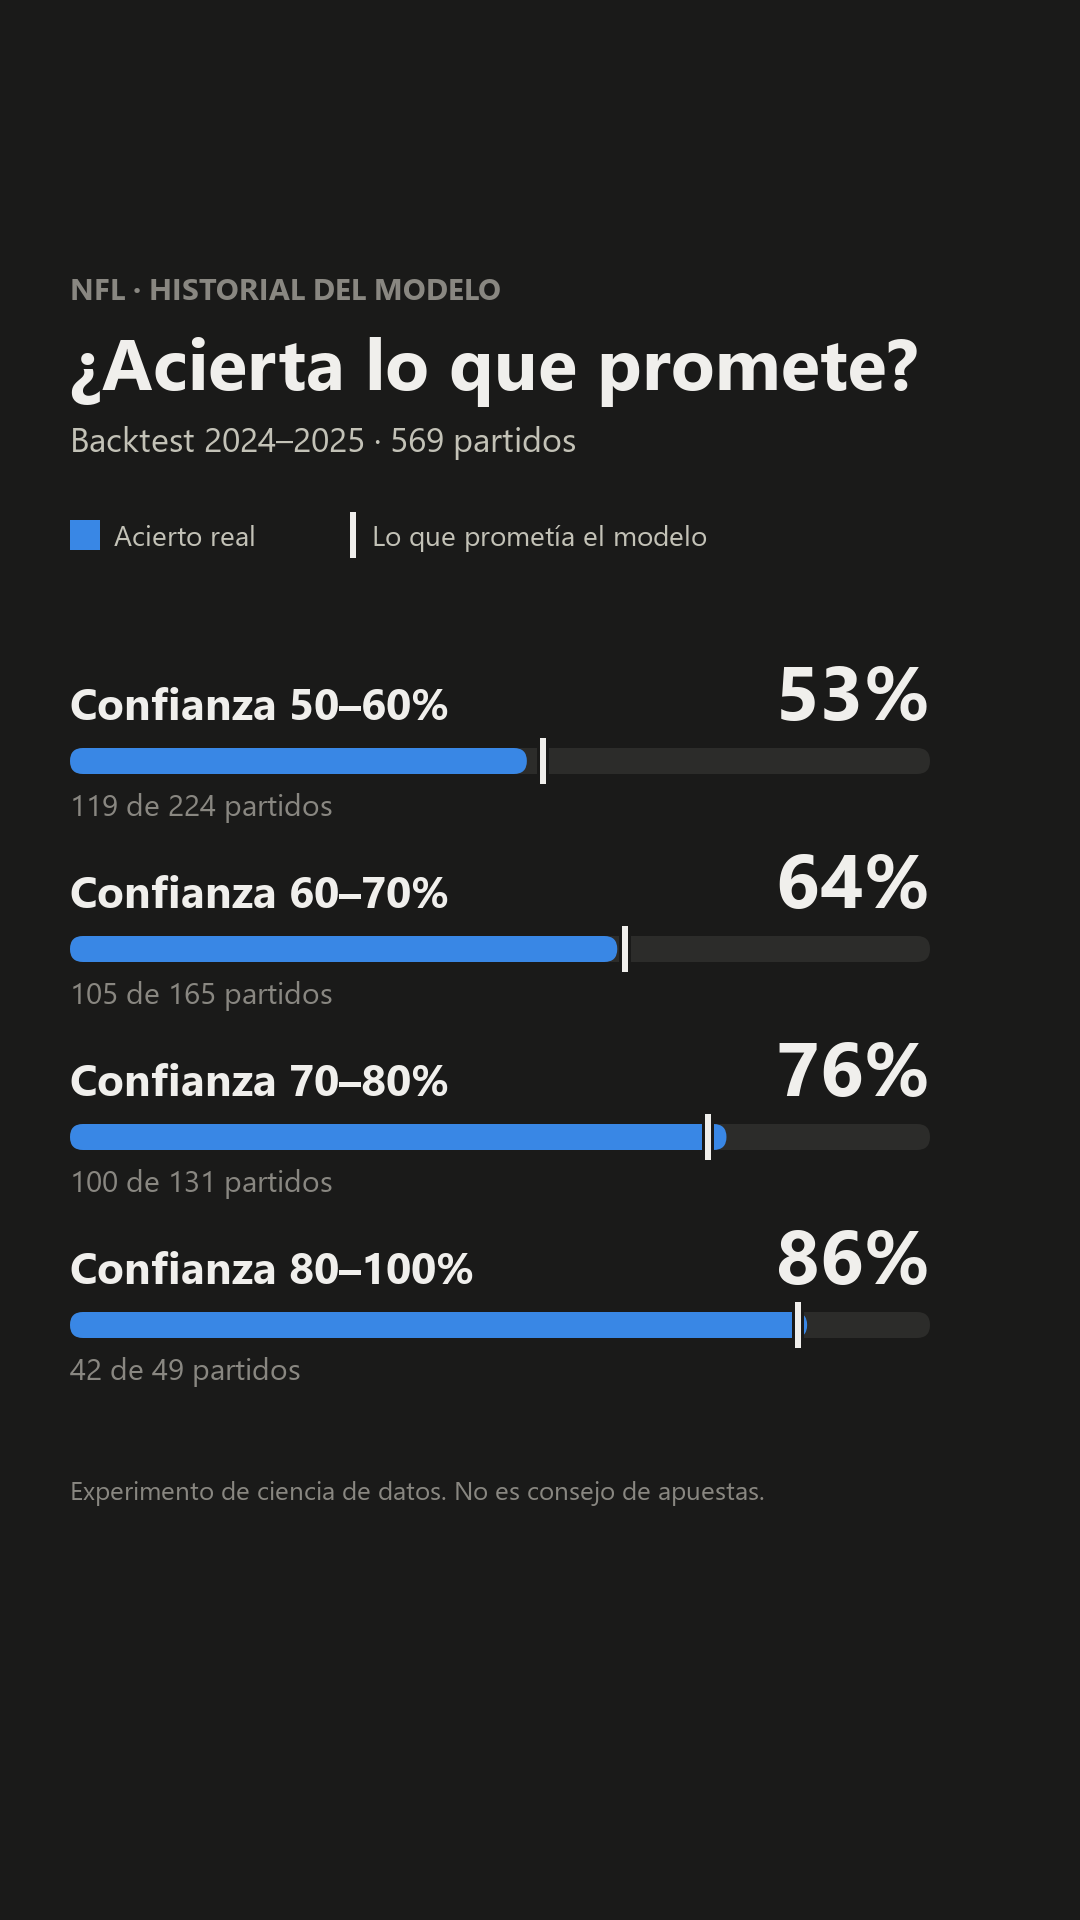
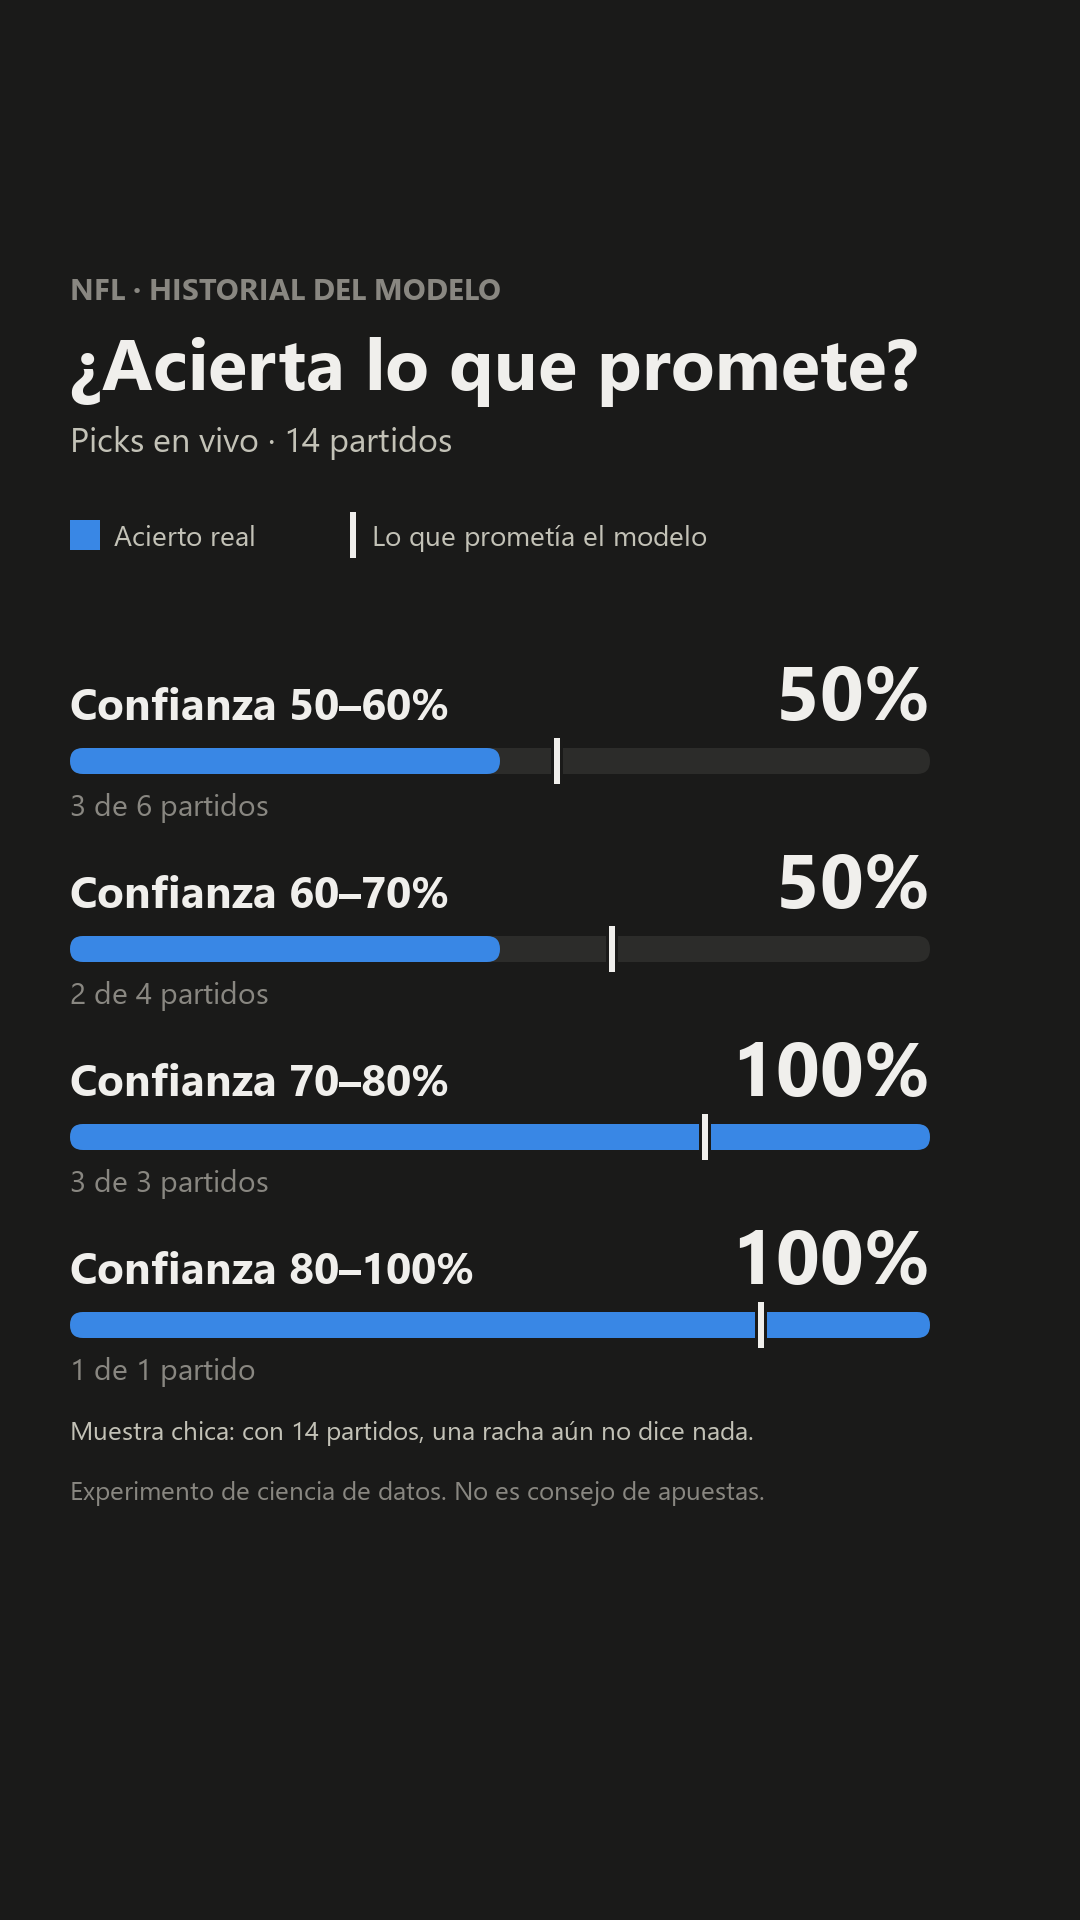
Imágenes: hasta 6 picks fuertes, aviso de muestra chica y nota de Vegas según el caso

diff --git a/src/nfl_model/content.py b/src/nfl_model/content.py
@@ -51,7 +51,11 @@ NARANJA = "#d95926"  # serie 2: Las Vegas
 FUENTE = ["Segoe UI", "DejaVu Sans"]
 
 FUERTE = 0.70
-MAX_PICKS = 5
+# Hasta 5 picks caben con el tamaño normal; el sexto entra con filas compactas.
+MAX_PICKS = 6
+PICKS_NORMALES = 5
+# Con menos partidos calificados en vivo, el historial lleva aviso (mismo umbral que track).
+MUESTRA_MINIMA = 50
 
 
 # ---------- utilidades de dibujo ----------
@@ -144,56 +148,82 @@ def mayor_diferencia(picks: list[dict]) -> dict | None:
     return mejor
 
 
-def datos_historial() -> tuple[list[dict], str]:
-    """(tabla por rango, texto de la fuente). En vivo si hay; si no, backtest."""
+def nota_muestra(partidos_en_vivo: int) -> str | None:
+    """Aviso para el historial en vivo mientras la muestra sea chica."""
+    if partidos_en_vivo >= MUESTRA_MINIMA:
+        return None
+    return f"Muestra chica: con {partidos_en_vivo} partidos, una racha aún no dice nada."
+
+
+def datos_historial() -> tuple[list[dict], str, str | None]:
+    """(tabla por rango, texto de la fuente, aviso). En vivo si hay; si no, backtest."""
     ruta = PICKS_DIR / "resultados.csv"
     if ruta.exists():
         with ruta.open(newline="", encoding="utf-8") as archivo:
             filas = list(csv.DictReader(archivo))
         decididos = [f for f in filas if f["estado"] in ("acierto", "fallo")]
         if decididos:
-            return por_rango(filas), f"Picks en vivo · {len(decididos)} partidos"
+            return (
+                por_rango(filas),
+                f"Picks en vivo · {len(decididos)} partidos",
+                nota_muestra(len(decididos)),
+            )
 
     ruta = DATA_PROCESSED / "backtest_predicciones.parquet"
     if not ruta.exists():
-        return [], ""
+        return [], "", None
     filas = []
     for f in pl.read_parquet(ruta).filter(pl.col("season") >= 2024).to_dicts():
         p = f["p_home_modelo"]
         acierto = (p >= 0.5) == (f["home_win"] == 1)
         filas.append({"p_pick": max(p, 1 - p), "estado": "acierto" if acierto else "fallo"})
-    return por_rango(filas), f"Backtest 2024–2025 · {len(filas)} partidos"
+    return por_rango(filas), f"Backtest 2024–2025 · {len(filas)} partidos", None
 
 
 # ---------- las tres imágenes ----------
 
 
+def titulos_picks(n_fuertes: int) -> tuple[str, str]:
+    """(título, subtítulo) de la imagen de picks según cuántos llegan a 70%."""
+    if n_fuertes == 0:
+        return "Los picks más fuertes", "Esta semana ninguno llega a 70%"
+    if n_fuertes > MAX_PICKS:
+        return (
+            f"Los {MAX_PICKS} picks más fuertes",
+            f"{n_fuertes} llegan a 70%; aquí los {MAX_PICKS} más altos",
+        )
+    return "Picks de 70% o más", "Probabilidad de victoria según el modelo"
+
+
 def imagen_picks(picks: list[dict], temporada: int, semana: int, ruta: Path) -> Path:
-    fuertes = [f for f in picks if float(f["p_pick"]) >= FUERTE][:MAX_PICKS]
-    hay_fuertes = bool(fuertes)
-    mostrar = fuertes or picks[:3]
+    fuertes = [f for f in picks if float(f["p_pick"]) >= FUERTE]
+    mostrar = fuertes[:MAX_PICKS] or picks[:3]
+    titulo, subtitulo = titulos_picks(len(fuertes))
 
     fig, ax = _lienzo()
-    _encabezado(
-        ax,
-        f"NFL · Semana {semana} · {temporada}",
-        "Picks de 70% o más" if hay_fuertes else "Los picks más fuertes",
-        "Probabilidad de victoria según el modelo"
-        if hay_fuertes
-        else "Esta semana ninguno llega a 70%",
-    )
+    _encabezado(ax, f"NFL · Semana {semana} · {temporada}", titulo, subtitulo)
     # El partido va pegado a su barra y lejos del siguiente equipo, para que
-    # no se lea como título de la fila de abajo.
+    # no se lea como título de la fila de abajo. Con 6 filas todo se compacta
+    # para que la última termine antes del aviso del pie.
+    compacto = len(mostrar) > PICKS_NORMALES
+    letra, paso, bajo_barra = (64, 150, 76) if compacto else (76, 185, 86)
     y = 610
     for f in mostrar:
         p = float(f["p_pick"])
-        _texto(ax, IZQ, y, f["pick"], 76, TINTA, "bold")
-        _texto(ax, DER, y, _pct(p), 76, TINTA, "bold", "right")
-        _barra(ax, y + 26, p, AZUL)
-        _texto(ax, IZQ, y + 86, f"{f['visita']} en {f['local']}", 30, TENUE)
-        y += 185
+        _texto(ax, IZQ, y, f["pick"], letra, TINTA, "bold")
+        _texto(ax, DER, y, _pct(p), letra, TINTA, "bold", "right")
+        _barra(ax, y + 22 if compacto else y + 26, p, AZUL)
+        _texto(ax, IZQ, y + bajo_barra, f"{f['visita']} en {f['local']}", 30, TENUE)
+        y += paso
     _pie(ax)
     return _guardar(fig, ruta)
+
+
+def nota_vegas(mismo_ganador: bool) -> str:
+    """Dato del backtest 2024–2025 que corresponde a la situación del partido."""
+    if mismo_ganador:
+        return "En el backtest 2024–2025 Las Vegas acertó 68% de los partidos; el modelo, 64%."
+    return "En el backtest 2024–2025, cuando eligieron distinto, Las Vegas acertó 53 de 83."
 
 
 def imagen_vegas(picks: list[dict], temporada: int, semana: int, ruta: Path) -> Path | None:
@@ -230,16 +260,18 @@ def imagen_vegas(picks: list[dict], temporada: int, semana: int, ruta: Path) -> 
         y += 190
 
     _texto(ax, IZQ, 1380, f"{abs(d['diferencia']) * 100:.1f} puntos de diferencia", 44, TINTA, "bold")
-    _texto(
-        ax, IZQ, 1430,
-        "En el backtest 2024–2025, cuando eligieron distinto, Las Vegas acertó 53 de 83.",
-        24, TENUE,
-    )
+    _texto(ax, IZQ, 1430, nota_vegas(mismo_ganador), 24, TENUE)
     _pie(ax)
     return _guardar(fig, ruta)
 
 
-def imagen_historial(tabla: list[dict], fuente: str, ruta: Path) -> Path | None:
+def _partidos(n: int) -> str:
+    return "partido" if n == 1 else "partidos"
+
+
+def imagen_historial(
+    tabla: list[dict], fuente: str, ruta: Path, nota: str | None = None
+) -> Path | None:
     if not tabla:
         return None
     fig, ax = _lienzo()
@@ -262,11 +294,16 @@ def imagen_historial(tabla: list[dict], fuente: str, ruta: Path) -> Path | None:
             # Marca con anillo del color del fondo para que se lea sobre el relleno.
             ax.add_patch(Rectangle((x - 6, y + 16), 12, 50, facecolor=FONDO, edgecolor="none"))
             ax.add_patch(Rectangle((x - 3, y + 18), 6, 46, facecolor=TINTA, edgecolor="none"))
-            _texto(ax, IZQ, y + 96, f"{r['aciertos']} de {r['partidos']} partidos", 30, TENUE)
+            _texto(
+                ax, IZQ, y + 96,
+                f"{r['aciertos']} de {r['partidos']} {_partidos(r['partidos'])}", 30, TENUE,
+            )
         else:
             _barra(ax, y + 28, 0, AZUL)
             _texto(ax, IZQ, y + 96, "Sin partidos calificados todavía", 30, TENUE)
         y += 188
+    if nota:
+        _texto(ax, IZQ, 1440, nota, 26, TINTA_2)
     _pie(ax)
     return _guardar(fig, ruta)
 
@@ -349,10 +386,11 @@ def main() -> None:
 
     carpeta = REPORTS_DIR / "contenido"
     base = f"semana_{temporada}_{semana:02d}"
+    tabla, fuente, nota = datos_historial()
     hechas = [
         imagen_picks(picks, temporada, semana, carpeta / f"{base}_picks.png"),
         imagen_vegas(picks, temporada, semana, carpeta / f"{base}_vegas.png"),
-        imagen_historial(*datos_historial(), carpeta / "historial.png"),
+        imagen_historial(tabla, fuente, carpeta / "historial.png", nota),
     ]
     from .predict import perfiles_de_semana
 

diff --git a/tests/test_content.py b/tests/test_content.py
@@ -8,9 +8,14 @@ from nfl_model.content import (
     ANCHO,
     imagen_historial,
     imagen_picks,
+    MAX_PICKS,
+    MUESTRA_MINIMA,
     imagen_vegas,
     mayor_diferencia,
+    nota_muestra,
+    nota_vegas,
     picks_de_semana,
+    titulos_picks,
 )
 
 
@@ -78,3 +83,35 @@ def test_imagen_de_historial(tmp_path):
     ]
     assert _es_vertical(imagen_historial(tabla, "Backtest 2024–2025 · 520 partidos", tmp_path / "h.png"))
     assert imagen_historial([], "", tmp_path / "vacio.png") is None
+
+
+def test_titulos_picks_no_prometen_de_mas():
+    assert titulos_picks(0)[0] == "Los picks más fuertes"
+    # Si caben todos, el título "70% o más" es cierto.
+    assert titulos_picks(MAX_PICKS)[0] == "Picks de 70% o más"
+    # Si hay más de los que caben, el título dice cuántos se muestran.
+    titulo, subtitulo = titulos_picks(MAX_PICKS + 2)
+    assert titulo == f"Los {MAX_PICKS} picks más fuertes"
+    assert str(MAX_PICKS + 2) in subtitulo
+
+
+def test_imagen_de_picks_con_seis_fuertes(tmp_path):
+    base = picks_de_semana(_registro(), 2026, 10)[0]
+    seis = [{**base, "game_id": f"g{i}", "p_pick": f"0.{80 - i}"} for i in range(6)]
+    assert _es_vertical(imagen_picks(seis, 2026, 10, tmp_path / "seis.png"))
+
+
+def test_nota_de_muestra_chica():
+    assert "14 partidos" in nota_muestra(14)
+    assert nota_muestra(MUESTRA_MINIMA) is None
+
+
+def test_imagen_de_historial_con_nota(tmp_path):
+    tabla = [{"rango": "80–100%", "partidos": 1, "aciertos": 1, "confianza_media": 0.8}]
+    ruta = imagen_historial(tabla, "Picks en vivo · 1 partidos", tmp_path / "h.png", nota_muestra(1))
+    assert _es_vertical(ruta)
+
+
+def test_nota_vegas_segun_desacuerdo():
+    assert "53 de 83" in nota_vegas(False)
+    assert "53 de 83" not in nota_vegas(True)

diff --git a/docs/tecnica.md b/docs/tecnica.md
@@ -447,10 +447,10 @@ Genera imágenes verticales 1080×1920 en `reports/contenido/` desde el registro
 
 | Imagen | Contenido |
 |---|---|
-| `semana_*_picks.png` | Picks de mayor confianza |
-| `semana_*_vegas.png` | Mayor diferencia con Las Vegas |
+| `semana_*_picks.png` | Picks de 70% o más (hasta 6; con 6 las filas se compactan; si hay más, el título dice "Los 6 picks más fuertes") |
+| `semana_*_vegas.png` | Mayor diferencia con Las Vegas; el dato del pie cambia según elijan o no el mismo ganador |
 | `semana_*_duelo.png` | Ataque contra defensa más desigual |
-| `historial.png` | Aciertos por rango (usa el backtest 2024–2025 hasta que haya picks en vivo calificados, y lo indica) |
+| `historial.png` | Aciertos por rango. Usa el backtest 2024–2025 hasta que haya picks en vivo calificados; con menos de 50 en vivo agrega un aviso de muestra chica |
 
 Todo se dibuja en píxeles con Matplotlib, dentro de una zona segura que evita los botones de TikTok/Reels. Incluye siempre el aviso "experimento, no consejo de apuestas".
 
@@ -551,7 +551,7 @@ Para reconstruir todo desde cero: `ingest → elo → features → train → bac
 
 ### Pruebas
 
-`pytest` (76 pruebas, todas pasan; 75 funciones `test_`, una parametrizada) cubre: limpieza y abreviaturas, fórmulas de Elo y moneyline, anti-fuga de variables, selección y calibración, walk-forward (que nunca entrene con fechas ≥ corte), registro de solo-agregar, calificación, perfiles, imágenes y el experimento de cruces.
+`pytest` (81 pruebas, todas pasan; 80 funciones `test_`, una parametrizada) cubre: limpieza y abreviaturas, fórmulas de Elo y moneyline, anti-fuga de variables, selección y calibración, walk-forward (que nunca entrene con fechas ≥ corte), registro de solo-agregar, calificación, perfiles, imágenes y el experimento de cruces.
 
 ## 15. Trabajo futuro
 
